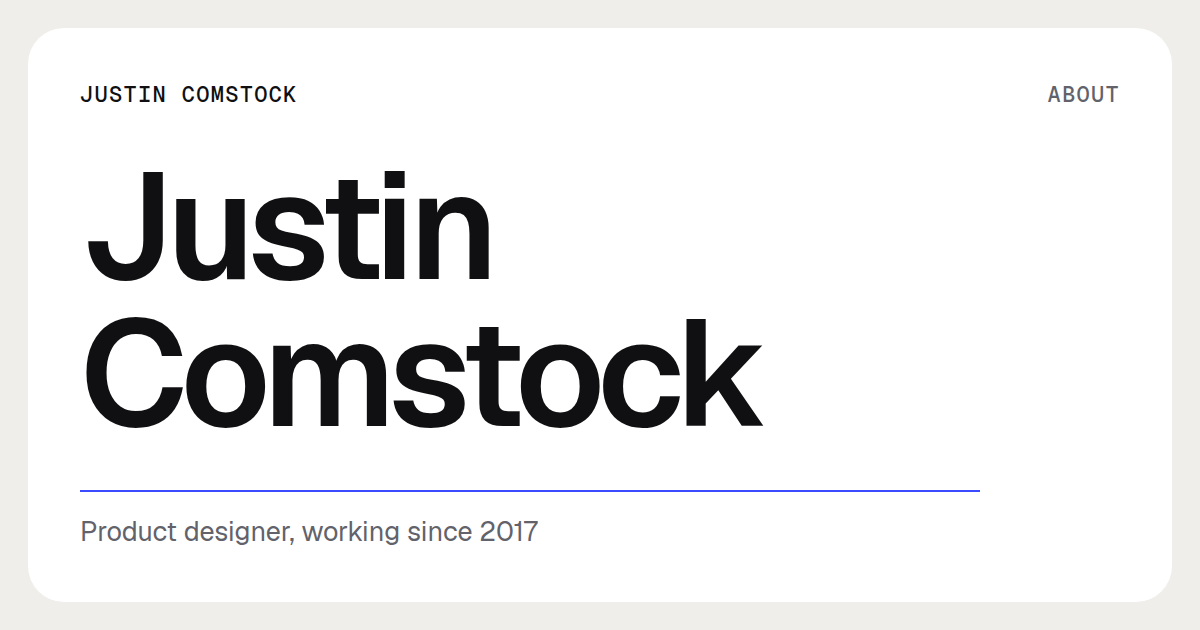
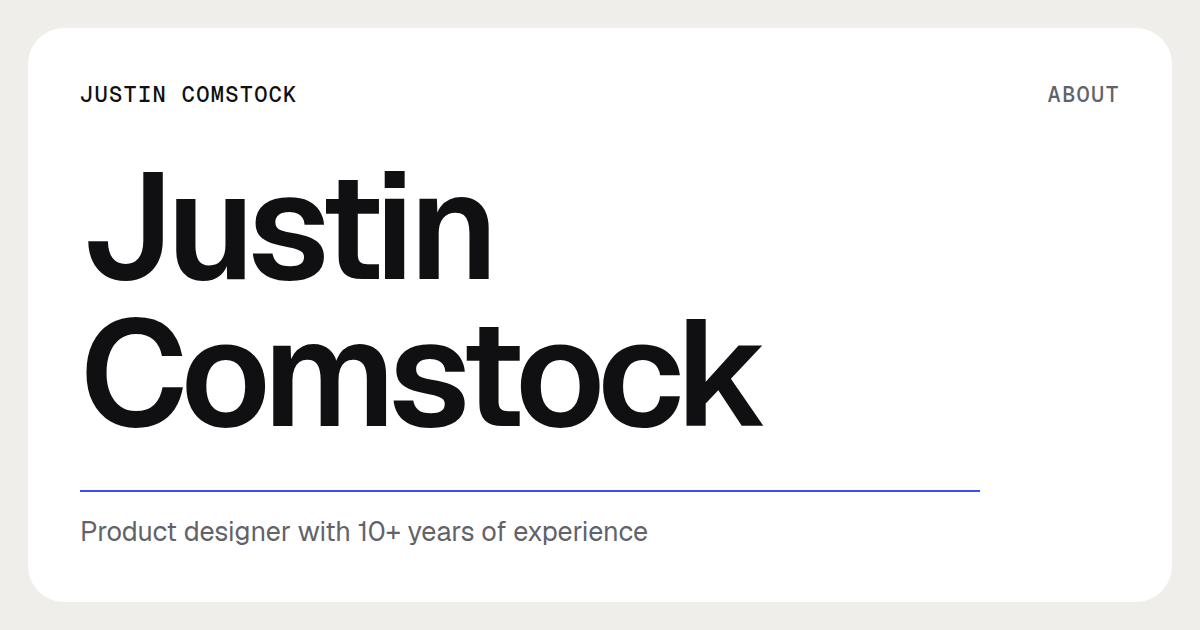
Years of experience: 10+ years, not since 2017

Changed region(s): [[0.2467, 0.8143, 0.555, 0.8746]]

diff --git a/index.html b/index.html
@@ -4,19 +4,19 @@
 <meta charset="utf-8">
 <meta name="viewport" content="width=device-width, initial-scale=1">
 <title>Justin Comstock, Senior Product Designer</title>
-<meta name="description" content="Senior product designer who also builds working software. Designing since 2017 across enterprise SaaS, consumer mobile and AI products. Denver, CO.">
+<meta name="description" content="Senior product designer who also builds working software. 10+ years of experience across enterprise SaaS, consumer mobile and AI products. Denver, CO.">
 <link rel="canonical" href="https://justincomstock.com/">
 <meta property="og:type" content="website">
 <meta property="og:site_name" content="Justin Comstock">
 <meta property="og:title" content="Justin Comstock, Senior Product Designer">
-<meta property="og:description" content="Senior product designer who also builds working software. Designing since 2017 across enterprise SaaS, consumer mobile and AI products. Denver, CO.">
+<meta property="og:description" content="Senior product designer who also builds working software. 10+ years of experience across enterprise SaaS, consumer mobile and AI products. Denver, CO.">
 <meta property="og:url" content="https://justincomstock.com/">
 <meta property="og:image" content="https://justincomstock.com/_assets/v/og/home.png">
 <meta property="og:image:width" content="1200">
 <meta property="og:image:height" content="630">
 <meta name="twitter:card" content="summary_large_image">
 <meta name="twitter:title" content="Justin Comstock, Senior Product Designer">
-<meta name="twitter:description" content="Senior product designer who also builds working software. Designing since 2017 across enterprise SaaS, consumer mobile and AI products. Denver, CO.">
+<meta name="twitter:description" content="Senior product designer who also builds working software. 10+ years of experience across enterprise SaaS, consumer mobile and AI products. Denver, CO.">
 <meta name="twitter:image" content="https://justincomstock.com/_assets/v/og/home.png">
 <meta name="theme-color" content="#efeeea">
 <link rel="icon" href="/_assets/v/favicon.svg" type="image/svg+xml">
@@ -43,12 +43,12 @@
   <section class="card intro">
     <p class="kick mono"><span>Justin Comstock</span><span>Denver, CO</span><span class="avail">Open to contract and full-time work</span></p>
     <h1>Senior product designer who also builds working software.</h1>
-    <p class="lede">Designing since 2017 across enterprise SaaS, consumer mobile and AI products, including hotel-operations software used by Marriott and Hyatt.</p>
+    <p class="lede">10+ years of experience across enterprise SaaS, consumer mobile and AI products, including hotel-operations software used by Marriott and Hyatt.</p>
     <p class="cta"><a class="btn" href="mailto:hello@justincomstock.com">hello@justincomstock.com</a><a class="btn ghost" href="https://www.linkedin.com/in/justin-comstock/" target="_blank" rel="noopener">LinkedIn <svg class="arr" viewBox="0 0 12 12" width="12" height="12" fill="none" stroke="currentColor" stroke-width="1.6" aria-hidden="true"><path d="M2 10l8-8M4 2h6v6"/></svg></a></p>
   </section>
   <div class="card photo"><img src="/_assets/next/img/justin-800.webp" srcset="/_assets/next/img/justin-320.webp 320w, /_assets/next/img/justin-800.webp 800w" sizes="(min-width:1100px) 20vw, 50vw" alt="Justin Comstock" width="800" height="1200" fetchpriority="high">
     <p class="mono"><b>Justin Comstock</b><span>Denver, CO</span></p></div>
-  <div class="card since"><p class="mono">Designing since</p><p class="big">2017</p><p class="sm">Enterprise SaaS, consumer mobile, AI products.</p></div>
+  <div class="card since"><p class="mono">Years of experience</p><p class="big">10+</p><p class="sm">Enterprise SaaS, consumer mobile, AI products.</p></div>
   <div class="card build"><p class="mono">Design and code</p><p class="mid">Figma to working software</p><p class="sm">Swift and SwiftUI, React, design systems.</p></div>
   <div class="card proofc"><div class="proof"><p class="mono">Clients and teams</p><ul><li>Marriott</li><li>Hyatt</li><li>Comcast</li><li>Xfinity</li><li>Peer</li><li>Feeling Good</li></ul></div></div>
 </div>
@@ -57,7 +57,7 @@
   <div class="pgrid n3"><a class="card proj case rv" href="/projects/feelinggood"><span class="pi"><img class="" src="/_assets/next/img/feelinggood-1200.webp" srcset="/_assets/next/img/feelinggood-640.webp 640w, /_assets/next/img/feelinggood-1200.webp 1200w" sizes="(min-width:1100px) 30vw, (min-width:700px) 50vw, 100vw" alt="A hand holding a phone showing the Feeling Good app: a pink screen that asks how you are feeling today." width="1200" height="900" loading="lazy" decoding="async"></span><span class="pb"><span class="pm"><span class="pt">Feeling Good</span><span class="py mono">2023</span></span><span class="pd">Founding designer of a mental wellness app: the core flows, and a design system built from scratch.</span><span class="pg mono">Brand, Mobile, Product</span></span></a><a class="card proj case rv" href="/projects/hex-agent"><span class="pi"><video class="" data-loop muted loop playsinline preload="none" poster="/_assets/next/hex/card-poster.webp" width="1600" height="900" aria-label="A dark desktop with a glowing ring at its centre: the agent at rest. Demo content."><source src="/_assets/next/hex/card-loop.webm" type="video/webm"><source src="/_assets/next/hex/card-loop.mp4" type="video/mp4"></video></span><span class="pb"><span class="pm"><span class="pt">Hex</span><span class="py mono">2026</span></span><span class="pd">Designing an AI agent you can live with: six decisions about where its output lives and what waits for a yes.</span><span class="pg mono">Product, AI agent</span></span></a><a class="card proj case rv" href="/projects/divine"><span class="pi"><span class="dv " role="img" aria-label="The Divine logo: a letter D drawn as a vector path with its anchor points."><img src="/_assets/v/logos/divine-1-vector-lockup-dark.svg" alt="" width="330" height="96"></span></span><span class="pb"><span class="pm"><span class="pt">Divine</span><span class="py mono">2023 – now</span></span><span class="pd">A native Mac design tool I design and build myself: infinite canvas, live multiplayer, and an AI agent that works on the canvas.</span><span class="pg mono">Product, Design, Engineering</span></span></a><a class="card proj shot rv" href="https://dribbble.com/shots/25023595-Flight-Finder-Mobile-Airline-Booking" target="_blank" rel="noopener"><span class="pi"><img class="" src="/_assets/next/img/flight-finder-1200.webp" srcset="/_assets/next/img/flight-finder-640.webp 640w, /_assets/next/img/flight-finder-1200.webp 1200w" sizes="(min-width:1100px) 30vw, (min-width:700px) 50vw, 100vw" alt="Flight Finder: mobile app design shot." width="1200" height="900" loading="lazy" decoding="async"></span><span class="pb"><span class="pm"><span class="pt">Flight Finder</span><span class="py mono">2023</span></span><span class="pg mono">Mobile app · Dribbble <svg class="arr" viewBox="0 0 12 12" width="12" height="12" fill="none" stroke="currentColor" stroke-width="1.6" aria-hidden="true"><path d="M2 10l8-8M4 2h6v6"/></svg></span></span></a><a class="card proj shot rv" href="https://dribbble.com/shots/23190779-NFT-Marketplace-Mobile-App" target="_blank" rel="noopener"><span class="pi"><img class="" src="/_assets/next/img/nft-marketplace-1200.webp" srcset="/_assets/next/img/nft-marketplace-640.webp 640w, /_assets/next/img/nft-marketplace-1200.webp 1200w" sizes="(min-width:1100px) 30vw, (min-width:700px) 50vw, 100vw" alt="NFT Marketplace: mobile app design shot." width="1200" height="900" loading="lazy" decoding="async"></span><span class="pb"><span class="pm"><span class="pt">NFT Marketplace</span><span class="py mono">2024</span></span><span class="pg mono">Mobile app · Dribbble <svg class="arr" viewBox="0 0 12 12" width="12" height="12" fill="none" stroke="currentColor" stroke-width="1.6" aria-hidden="true"><path d="M2 10l8-8M4 2h6v6"/></svg></span></span></a><a class="card proj shot rv" href="https://dribbble.com/shots/19994596-E-Learning-Courses-Dashboard" target="_blank" rel="noopener"><span class="pi"><img class="" src="/_assets/next/img/design-courses-1200.webp" srcset="/_assets/next/img/design-courses-640.webp 640w, /_assets/next/img/design-courses-1200.webp 1200w" sizes="(min-width:1100px) 30vw, (min-width:700px) 50vw, 100vw" alt="Design Courses: web dashboard design shot." width="1200" height="900" loading="lazy" decoding="async"></span><span class="pb"><span class="pm"><span class="pt">Design Courses</span><span class="py mono">2024</span></span><span class="pg mono">Web dashboard · Dribbble <svg class="arr" viewBox="0 0 12 12" width="12" height="12" fill="none" stroke="currentColor" stroke-width="1.6" aria-hidden="true"><path d="M2 10l8-8M4 2h6v6"/></svg></span></span></a><a class="card proj shot rv" href="https://dribbble.com/shots/23711209-Neobanking-Mobile-App" target="_blank" rel="noopener"><span class="pi"><img class="" src="/_assets/next/img/neobanking-1200.webp" srcset="/_assets/next/img/neobanking-640.webp 640w, /_assets/next/img/neobanking-1200.webp 1200w" sizes="(min-width:1100px) 30vw, (min-width:700px) 50vw, 100vw" alt="Neobanking: mobile app design shot." width="1200" height="900" loading="lazy" decoding="async"></span><span class="pb"><span class="pm"><span class="pt">Neobanking</span><span class="py mono">2022</span></span><span class="pg mono">Mobile app · Dribbble <svg class="arr" viewBox="0 0 12 12" width="12" height="12" fill="none" stroke="currentColor" stroke-width="1.6" aria-hidden="true"><path d="M2 10l8-8M4 2h6v6"/></svg></span></span></a><a class="card proj shot rv" href="https://dribbble.com/shots/23919093-Kanbany-Vision-Pro-meets-Kanban" target="_blank" rel="noopener"><span class="pi"><img class="" src="/_assets/next/img/kanbany-1200.webp" srcset="/_assets/next/img/kanbany-640.webp 640w, /_assets/next/img/kanbany-1200.webp 1200w" sizes="(min-width:1100px) 30vw, (min-width:700px) 50vw, 100vw" alt="Kanbany: vision pro design shot." width="1200" height="900" loading="lazy" decoding="async"></span><span class="pb"><span class="pm"><span class="pt">Kanbany</span><span class="py mono">2023</span></span><span class="pg mono">Vision Pro · Dribbble <svg class="arr" viewBox="0 0 12 12" width="12" height="12" fill="none" stroke="currentColor" stroke-width="1.6" aria-hidden="true"><path d="M2 10l8-8M4 2h6v6"/></svg></span></span></a><a class="card proj shot rv" href="https://dribbble.com/shots/19502734-Peak-Health" target="_blank" rel="noopener"><span class="pi"><img class="" src="/_assets/next/img/peak-health-1200.webp" srcset="/_assets/next/img/peak-health-640.webp 640w, /_assets/next/img/peak-health-1200.webp 1200w" sizes="(min-width:1100px) 30vw, (min-width:700px) 50vw, 100vw" alt="Peak Health: mobile app design shot." width="1200" height="900" loading="lazy" decoding="async"></span><span class="pb"><span class="pm"><span class="pt">Peak Health</span><span class="py mono">2024</span></span><span class="pg mono">Mobile app · Dribbble <svg class="arr" viewBox="0 0 12 12" width="12" height="12" fill="none" stroke="currentColor" stroke-width="1.6" aria-hidden="true"><path d="M2 10l8-8M4 2h6v6"/></svg></span></span></a></div>
 </section>
 <div class="wrap two">
-  <section class="exp wrap" aria-labelledby="exp-h"><h2 id="exp-h" class="sh">Experience</h2><ol class="xl"><li class="rv"><span class="xy mono">2025 – 2026</span><span class="xc">Peer</span><span class="xr">Lead product designer, contract</span><span class="xd">An AI-companion social app. Designed onboarding, the first-time experience and the companion&#x27;s progression system, working directly with the CEO.</span></li><li class="rv"><span class="xy mono">2023</span><span class="xc">Feeling Good</span><span class="xr">Founding designer</span><span class="xd">A mental wellness app. Owned the core user flows and built the web and mobile design system from scratch, working with licensed psychologists.</span></li><li class="rv"><span class="xy mono">2018 – 2022</span><span class="xc">Actabl</span><span class="xr"></span><span class="xd">Hotel-operations software used by Marriott and Hyatt. The enterprise reporting layer, a reusable data grid, and an inventory app for Comcast/Xfinity teams, researched on site.</span></li><li class="rv"><span class="xy mono">2017 – now</span><span class="xc">Freelance</span><span class="xr">Product designer</span><span class="xd">Independent product, UX/UI and web design for clients, between roles.</span></li></ol></section>
+  <section class="exp wrap" aria-labelledby="exp-h"><h2 id="exp-h" class="sh">Experience</h2><ol class="xl"><li class="rv"><span class="xy mono">2025 – 2026</span><span class="xc">Peer</span><span class="xr">Lead product designer, contract</span><span class="xd">An AI-companion social app. Designed onboarding, the first-time experience and the companion&#x27;s progression system, working directly with the CEO.</span></li><li class="rv"><span class="xy mono">2023</span><span class="xc">Feeling Good</span><span class="xr">Founding designer</span><span class="xd">A mental wellness app. Owned the core user flows and built the web and mobile design system from scratch, working with licensed psychologists.</span></li><li class="rv"><span class="xy mono">2018 – 2022</span><span class="xc">Actabl</span><span class="xr"></span><span class="xd">Hotel-operations software used by Marriott and Hyatt. The enterprise reporting layer, a reusable data grid, and an inventory app for Comcast/Xfinity teams, researched on site.</span></li><li class="rv"><span class="xy mono">2016 – now</span><span class="xc">Freelance</span><span class="xr">Product designer</span><span class="xd">Independent product, UX/UI and web design for clients, between roles.</span></li></ol></section>
   <section class="card does" aria-labelledby="does-h"><h2 id="does-h" class="sh">What I do</h2><ul class="tags"><li>UX/UI</li><li>Design systems</li><li>Leadership</li><li>Development</li></ul>
   <dl class="sk"><dt class='mono'>Design</dt><dd>Product design, UX and UI, interaction design, information architecture, user research, usability testing, prototyping, design systems, accessibility, enterprise and data-heavy UI, mobile and native apps.</dd><dt class='mono'>Tools</dt><dd>Figma, FigJam, Adobe XD, Photoshop, Illustrator, Webflow, Framer.</dd><dt class='mono'>Code</dt><dd>Swift, SwiftUI, AppKit, React, JavaScript, HTML/CSS, Electron, Node.js, C#/.NET.</dd></dl></section>
 </div>

diff --git a/about-me.html b/about-me.html
@@ -4,19 +4,19 @@
 <meta charset="utf-8">
 <meta name="viewport" content="width=device-width, initial-scale=1">
 <title>About | Justin Comstock</title>
-<meta name="description" content="Product designer, working since 2017, across mobile, web and desktop, with a foundation in both design and development.">
+<meta name="description" content="Product designer with 10+ years of experience across mobile, web and desktop, with a foundation in both design and development.">
 <link rel="canonical" href="https://justincomstock.com/about-me">
 <meta property="og:type" content="website">
 <meta property="og:site_name" content="Justin Comstock">
 <meta property="og:title" content="About | Justin Comstock">
-<meta property="og:description" content="Product designer, working since 2017, across mobile, web and desktop, with a foundation in both design and development.">
+<meta property="og:description" content="Product designer with 10+ years of experience across mobile, web and desktop, with a foundation in both design and development.">
 <meta property="og:url" content="https://justincomstock.com/about-me">
 <meta property="og:image" content="https://justincomstock.com/_assets/v/og/about.png">
 <meta property="og:image:width" content="1200">
 <meta property="og:image:height" content="630">
 <meta name="twitter:card" content="summary_large_image">
 <meta name="twitter:title" content="About | Justin Comstock">
-<meta name="twitter:description" content="Product designer, working since 2017, across mobile, web and desktop, with a foundation in both design and development.">
+<meta name="twitter:description" content="Product designer with 10+ years of experience across mobile, web and desktop, with a foundation in both design and development.">
 <meta name="twitter:image" content="https://justincomstock.com/_assets/v/og/about.png">
 <meta name="theme-color" content="#efeeea">
 <link rel="icon" href="/_assets/v/favicon.svg" type="image/svg+xml">
@@ -42,7 +42,7 @@
   <div>
     <p class="kick mono"><span>About</span><span>Denver, CO</span><span class="avail">Open to contract and full-time work</span></p>
     <h1>Justin Comstock</h1>
-    <p class="ab-big">Product designer, working since 2017, crafting thoughtful, high-impact experiences across mobile, web, and desktop. With a strong foundation in both design and development, I build products that are not only intuitive and polished, but technically grounded. I also work at the forefront of AI, translating emerging capabilities into practical, user-centered experiences.</p>
+    <p class="ab-big">Product designer with 10+ years of experience crafting thoughtful, high-impact experiences across mobile, web, and desktop. With a strong foundation in both design and development, I build products that are not only intuitive and polished, but technically grounded. I also work at the forefront of AI, translating emerging capabilities into practical, user-centered experiences.</p>
     <p class="cta"><a class="btn" href="mailto:hello@justincomstock.com">hello@justincomstock.com</a><a class="btn ghost" href="https://www.linkedin.com/in/justin-comstock/" target="_blank" rel="noopener">LinkedIn <svg class="arr" viewBox="0 0 12 12" width="12" height="12" fill="none" stroke="currentColor" stroke-width="1.6" aria-hidden="true"><path d="M2 10l8-8M4 2h6v6"/></svg></a></p>
   </div>
   <img class="ab-me" src="/_assets/next/img/justin-800.webp" srcset="/_assets/next/img/justin-320.webp 320w, /_assets/next/img/justin-800.webp 800w" sizes="(min-width:900px) 30vw, 60vw" alt="Justin Comstock" width="800" height="1200" fetchpriority="high">
@@ -52,8 +52,8 @@
   <div><h2 class="mono">Contact</h2><ul><li><a class="u" href="mailto:hello@justincomstock.com">hello@justincomstock.com</a></li><li><a class="u" href="https://www.linkedin.com/in/justin-comstock/" target="_blank" rel="noopener">LinkedIn</a></li><li>Denver, CO, USA</li></ul></div>
   <div class="wide"><h2 class="mono">Skills</h2><dl class="sk"><dt class='mono'>Design</dt><dd>Product design, UX and UI, interaction design, information architecture, user research, usability testing, prototyping, design systems, accessibility, enterprise and data-heavy UI, mobile and native apps.</dd><dt class='mono'>Tools</dt><dd>Figma, FigJam, Adobe XD, Photoshop, Illustrator, Webflow, Framer.</dd><dt class='mono'>Code</dt><dd>Swift, SwiftUI, AppKit, React, JavaScript, HTML/CSS, Electron, Node.js, C#/.NET.</dd></dl></div>
 </section>
-<section class="exp wrap" aria-labelledby="exp-h"><h2 id="exp-h" class="sh">Experience</h2><ol class="xl"><li class="rv"><span class="xy mono">2025 – 2026</span><span class="xc">Peer</span><span class="xr">Lead product designer, contract</span><span class="xd">An AI-companion social app. Designed onboarding, the first-time experience and the companion&#x27;s progression system, working directly with the CEO.</span></li><li class="rv"><span class="xy mono">2023</span><span class="xc">Feeling Good</span><span class="xr">Founding designer</span><span class="xd">A mental wellness app. Owned the core user flows and built the web and mobile design system from scratch, working with licensed psychologists.</span></li><li class="rv"><span class="xy mono">2018 – 2022</span><span class="xc">Actabl</span><span class="xr"></span><span class="xd">Hotel-operations software used by Marriott and Hyatt. The enterprise reporting layer, a reusable data grid, and an inventory app for Comcast/Xfinity teams, researched on site.</span></li><li class="rv"><span class="xy mono">2017 – now</span><span class="xc">Freelance</span><span class="xr">Product designer</span><span class="xd">Independent product, UX/UI and web design for clients, between roles.</span></li></ol></section>
-<section class="ab-hi wrap" aria-labelledby="hi-h"><h2 id="hi-h" class="sh">Highlights</h2><ol><li class="rv"><span class="mono">01</span>Led nearly 100 different design projects</li><li class="rv"><span class="mono">02</span>Designing UX/UI since 2017</li><li class="rv"><span class="mono">03</span>Enterprise design + Consumer design experience</li><li class="rv"><span class="mono">04</span>Expert in responsive Figma design</li><li class="rv"><span class="mono">05</span>Experienced developer &amp; designer unicorn</li><li class="rv"><span class="mono">06</span>Created scalable design systems from scratch</li></ol></section>
+<section class="exp wrap" aria-labelledby="exp-h"><h2 id="exp-h" class="sh">Experience</h2><ol class="xl"><li class="rv"><span class="xy mono">2025 – 2026</span><span class="xc">Peer</span><span class="xr">Lead product designer, contract</span><span class="xd">An AI-companion social app. Designed onboarding, the first-time experience and the companion&#x27;s progression system, working directly with the CEO.</span></li><li class="rv"><span class="xy mono">2023</span><span class="xc">Feeling Good</span><span class="xr">Founding designer</span><span class="xd">A mental wellness app. Owned the core user flows and built the web and mobile design system from scratch, working with licensed psychologists.</span></li><li class="rv"><span class="xy mono">2018 – 2022</span><span class="xc">Actabl</span><span class="xr"></span><span class="xd">Hotel-operations software used by Marriott and Hyatt. The enterprise reporting layer, a reusable data grid, and an inventory app for Comcast/Xfinity teams, researched on site.</span></li><li class="rv"><span class="xy mono">2016 – now</span><span class="xc">Freelance</span><span class="xr">Product designer</span><span class="xd">Independent product, UX/UI and web design for clients, between roles.</span></li></ol></section>
+<section class="ab-hi wrap" aria-labelledby="hi-h"><h2 id="hi-h" class="sh">Highlights</h2><ol><li class="rv"><span class="mono">01</span>Led nearly 100 different design projects</li><li class="rv"><span class="mono">02</span>10+ years designing UX/UI</li><li class="rv"><span class="mono">03</span>Enterprise design + Consumer design experience</li><li class="rv"><span class="mono">04</span>Expert in responsive Figma design</li><li class="rv"><span class="mono">05</span>Experienced developer &amp; designer unicorn</li><li class="rv"><span class="mono">06</span>Created scalable design systems from scratch</li></ol></section>
 <section class="ab-time wrap" aria-labelledby="mt-h"><h2 id="mt-h" class="sh">Me time</h2><p class="lede">When I&#x27;m not coding or designing, I&#x27;m probably hiking in the mountains, cooking up a new recipe, or hanging out with friends.</p><div class="ab-photos"><img class="rv" src="/_assets/next/img/me-1-800.webp" alt="A creek running through a mountain town in autumn" loading="lazy" decoding="async" width="800" height="1067"><img class="rv" src="/_assets/next/img/me-2-800.webp" alt="Justin Comstock" loading="lazy" decoding="async" width="800" height="1200"><img class="rv" src="/_assets/next/img/me-3-800.webp" alt="A pan of shakshuka" loading="lazy" decoding="async" width="800" height="1067"><img class="rv" src="/_assets/next/img/me-4-800.webp" alt="Clouds over a mountain town" loading="lazy" decoding="async" width="800" height="600"></div></section>
 </main>
 <footer class="foot">
